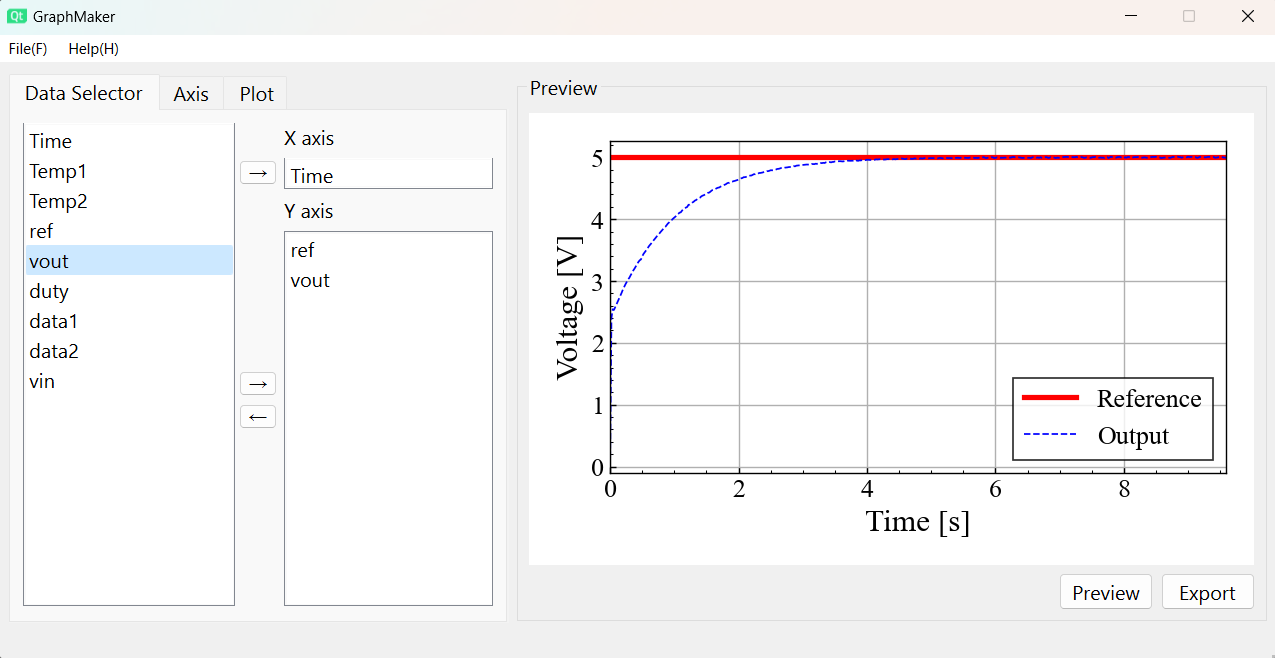
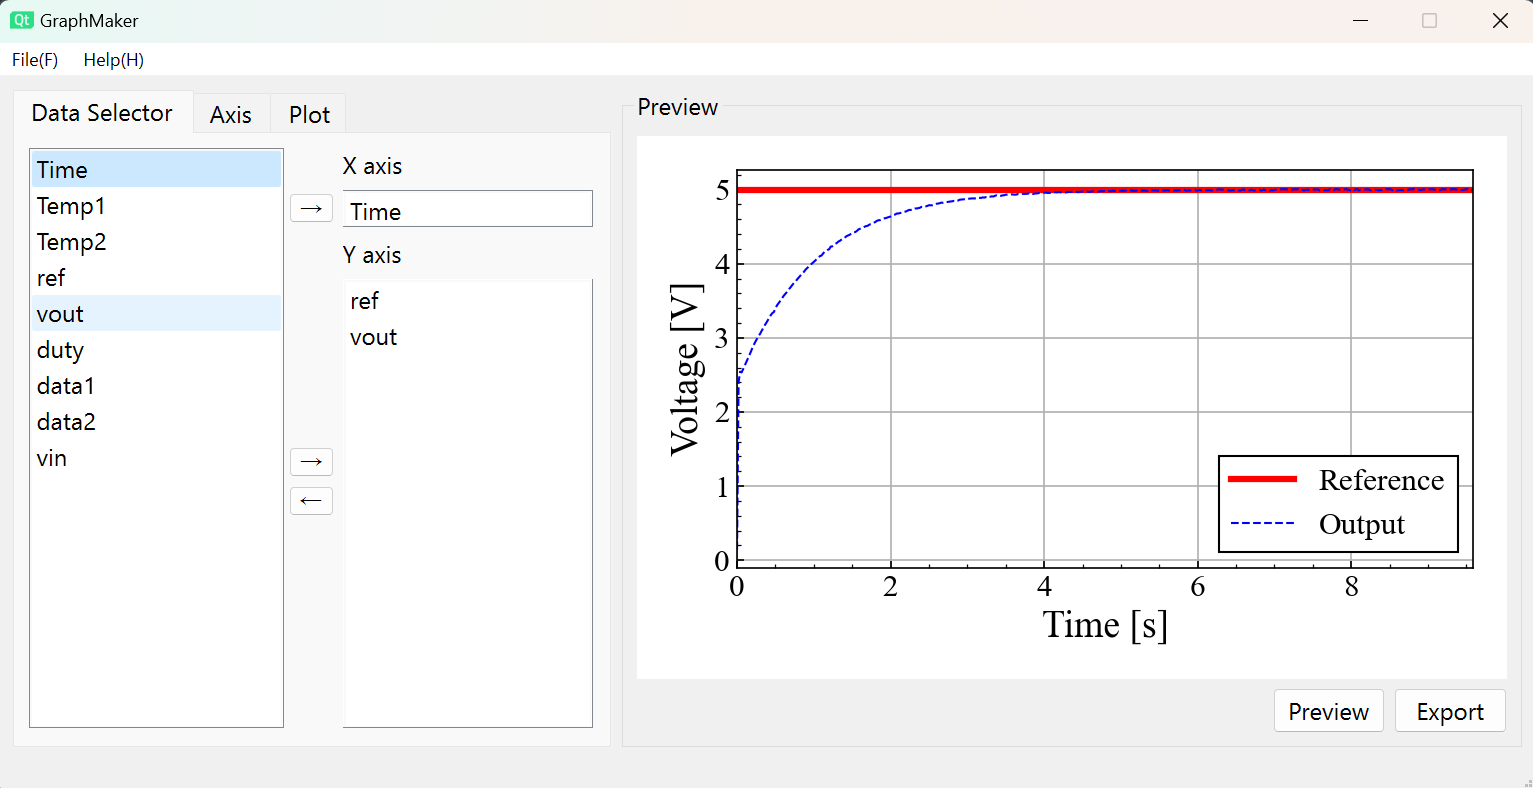
凡例を不透過に変更

diff --git a/script/graphPlotter.py b/script/graphPlotter.py
@@ -57,7 +57,8 @@ class GraphPlotter:
         plt.rcParams["font.size"] = GraphPlotter.DEFAULT_FONT_SIZE # font size
         # 凡例
         plt.rcParams["legend.fancybox"] = False # 凡例の枠を四角くする
-        plt.rcParams["legend.edgecolor"] = "black" # 凡例の枠線の色を白にする
+        plt.rcParams["legend.edgecolor"] = "black" # 凡例の枠線の色を黒にする
+        plt.rcParams["legend.framealpha"] = 1 # 凡例を透過させない
         # 軸
         plt.rcParams['xtick.direction'] = 'in' #x軸の目盛りの向き
         plt.rcParams['ytick.direction'] = 'in' #y軸の目盛りの向き
